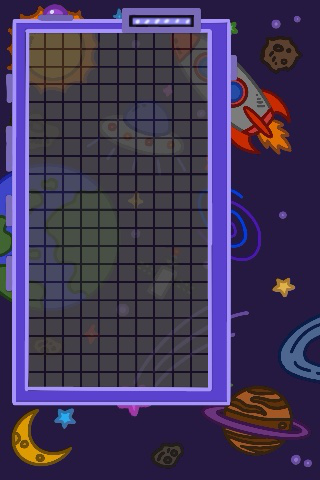
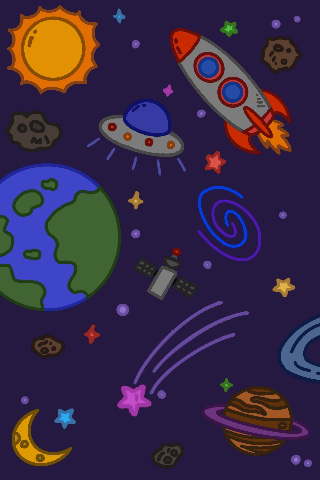
not finished

diff --git a/src/main.cpp b/src/main.cpp
@@ -29,8 +29,23 @@ int main()
 
     Font font = LoadFontEx("Font/monogram.ttf", 64, 0, 0);
     Image background = LoadImage("resources/background.png"); // initialize background
+    Image grid = LoadImage("resources/grid.PNG"); // initialize components
+    Image gameover = LoadImage("resources/IMG_5410.PNG"); // initialize background
+    Image finalscore = LoadImage("resources/IMG_5421.PNG"); // initialize components
+    Image logo = LoadImage("resources/IMG_5424.PNG"); // initialize components
+    Image enter = LoadImage("resources/IMG_5423.PNG"); // initialize components
     ImageResize(&background, 500, 680);
+    ImageResize(&grid, 500, 680);
+    ImageResize(&gameover, 500, 150);
+    ImageResize(&finalscore, 500, 100);
+    ImageResize(&logo, 500, 680);
+    ImageResize(&enter, 500, 150);
     Texture2D texture = LoadTextureFromImage(background);
+    Texture2D frame = LoadTextureFromImage(grid);
+    Texture2D endgame = LoadTextureFromImage(gameover);
+    Texture2D finalpoints = LoadTextureFromImage(finalscore);
+    Texture2D pic = LoadTextureFromImage(logo);
+    Texture2D startgame = LoadTextureFromImage(enter);
 
     Game game = Game();
 
@@ -58,7 +73,7 @@ int main()
                 // TODO: Update TITLE screen variables here!
 
                 // Press enter to change to GAMEPLAY screen
-                if (IsKeyPressed(KEY_ENTER) || IsGestureDetected(GESTURE_TAP))
+                if (IsKeyPressed(KEY_ENTER))
                 {
                     currentScreen = GAMEPLAY;
                 }
@@ -71,19 +86,21 @@ int main()
                 {
                     game.MoveBlockDown();
                 }
-                if (IsKeyPressed(KEY_ENTER) || IsGestureDetected(GESTURE_TAP))
-                {
-                    currentScreen = ENDING;
-                }
             } break;
             case ENDING:
             {
                 // TODO: Update ENDING screen variables here!
 
                 // Press enter to return to TITLE screen
-                if (IsKeyPressed(KEY_ENTER) || IsGestureDetected(GESTURE_TAP))
+                if (IsKeyPressed(KEY_ENTER))
                 {
                     currentScreen = TITLE;
+                    UpdateMusicStream(game.music);
+                    game.HandleInput();
+                    if (EventTriggered(0.2))
+                    {
+                        game.MoveBlockDown();
+                    }
                 }
             } break;
             default: break;
@@ -100,47 +117,49 @@ int main()
             {
                 case LOGO:
                 {
-                    // TODO: Draw LOGO screen here!
-                    DrawText("LOGO SCREEN", 20, 20, 40, LIGHTGRAY);
-                    DrawText("WAIT for 2 SECONDS...", 290, 220, 20, GRAY);
+                    DrawTexture(texture, screenWidth - texture.width, screenHeight - texture.height, WHITE);
+                    DrawText("LOADING.. C++CJIA", 20, 20, 40, WHITE);
 
                 } break;
                 case TITLE:
                 {
-                    // TODO: Draw TITLE screen here!
-                    DrawRectangle(0, 0, screenWidth, screenHeight, GREEN);
-                    DrawText("TITLE SCREEN", 20, 20, 40, DARKGREEN);
-                    DrawText("PRESS ENTER or TAP to JUMP to GAMEPLAY SCREEN", 120, 220, 20, DARKGREEN);
+                    DrawTexture(texture, screenWidth - texture.width, screenHeight - texture.height, WHITE);
+                    DrawTexture(pic, screenWidth - pic.width, screenHeight - pic.height, WHITE);
+                    DrawTexture(startgame, screenWidth - startgame.width, screenHeight - startgame.height, WHITE);
 
                 } break;
                 case GAMEPLAY:
                 {
                     ClearBackground(darkBlue);
-                    DrawTextEx(font, "Score", {365, 15}, 38, 2, WHITE);
-                    DrawTextEx(font, "Next", {370, 175}, 38, 2, WHITE);
+                    DrawTexture(texture, screenWidth - texture.width, screenHeight - texture.height, WHITE);
+                    DrawTexture(frame, screenWidth - grid.width, screenHeight - grid.height, WHITE);
+                    
                     if (game.gameOver)
                     {
-                        DrawTextEx(font, "GAME OVER!", {320, 450}, 38, 2, WHITE);
                         currentScreen = ENDING;
                     }
-                    DrawRectangleRounded({320, 55, 170, 60}, 0.3, 6, lightBlue);
+                    
 
                     char scoreText[10];
                     sprintf(scoreText, "%d", game.score);
                     Vector2 textSize = MeasureTextEx(font, scoreText, 38, 2);
 
-                    DrawTextEx(font, scoreText, {320 + (170 - textSize.x) / 2, 65}, 38, 2, WHITE);
-                    DrawRectangleRounded({320, 215, 170, 180}, 0.3, 6, lightBlue);
-                    DrawTexture(texture, screenWidth - texture.width, screenHeight - texture.height, WHITE);
+                    DrawTextEx(font, scoreText, {320 + (210 - textSize.x) / 2, 60}, 38, 2, WHITE);
+                    
+                    
                     game.Draw();
 
                 } break;
                 case ENDING:
                 {
+                    char scoreText[10];
+                    sprintf(scoreText, "%d", game.score);
+                    Vector2 textSize = MeasureTextEx(font, scoreText, 38, 2);
                     // TODO: Draw ENDING screen here!
-                    DrawRectangle(0, 0, screenWidth, screenHeight, BLUE);
-                    DrawText("ENDING SCREEN", 20, 20, 40, DARKBLUE);
-                    DrawText("PRESS ENTER or TAP to RETURN to TITLE SCREEN", 120, 220, 20, DARKBLUE);
+                    DrawTexture(texture, screenWidth - texture.width, screenHeight - texture.height, WHITE);
+                    DrawTexture(endgame, screenWidth - endgame.width, screenHeight - endgame.height*4, WHITE);
+                    DrawTextEx(font, scoreText, {140 + (210 - textSize.x) / 2, 400}, 80, 30, WHITE);
+                    DrawTexture(finalpoints, screenWidth - endgame.width, screenHeight - endgame.height*2.5, WHITE);
 
                 } break;
                 default: break;
@@ -149,13 +168,14 @@ int main()
         EndDrawing();
     }
 
-    // De-Initialization
-    //--------------------------------------------------------------------------------------
 
-    // TODO: Unload all loaded data (textures, fonts, audio) here!
     UnloadTexture(texture);
-
-    CloseWindow();        // Close window and OpenGL context
+    UnloadTexture(frame);
+    UnloadTexture(endgame);
+    UnloadTexture(finalpoints);
+    UnloadTexture(pic);
+    UnloadTexture(startgame);
+    CloseWindow();       
 
 
     return 0;

diff --git a/src/game.cpp b/src/game.cpp
@@ -48,13 +48,13 @@ void Game::Draw()
     switch (nextBlock.id)
     {
     case 3:
-        nextBlock.Draw(255, 290);
+        nextBlock.Draw(280, 290);
         break;
     case 4:
-        nextBlock.Draw(255, 280);
+        nextBlock.Draw(280, 280);
         break;
     default:
-        nextBlock.Draw(270, 270);
+        nextBlock.Draw(295, 273);
         break;
     }
 }
@@ -77,7 +77,7 @@ void Game::HandleInput()
         break;
     case KEY_DOWN:
         MoveBlockDown();
-        UpdateScore(0, 1);
+        
         break;
     case KEY_UP:
         RotateBlock();
